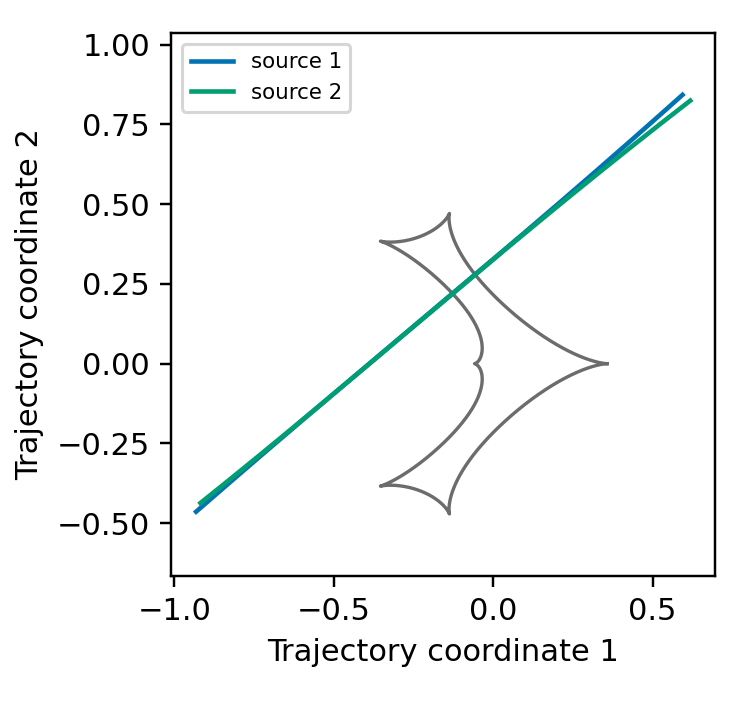
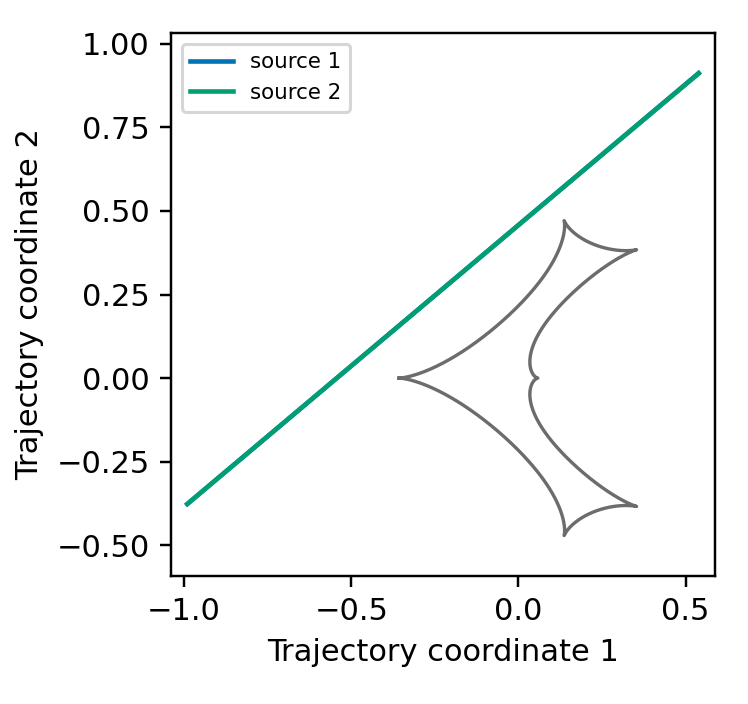
docs: restore aligned circular-elements examples

diff --git a/example/docs-python/generate_figures.py b/example/docs-python/generate_figures.py
@@ -388,15 +388,15 @@ def binary_source_xallarap_lightcurve():
 
 def binary_source_xallarap_elements_lightcurve():
     params = dict(
-        s=0.9, q=0.1, alpha=0.7, tE=30.0, t0=7500.0, u0=0.25,
+        s=0.9, q=0.1, alpha=0.7, tE=30.0, t0=7500.0, u0=0.35,
         rho1=0.004, rho2=0.002, flux_ratio=0.4, source_mass_ratio=0.7,
-        xi_1=0.015, xi_2=-0.0075,
+        xi_1=0.006, xi_2=-0.003,
     )
     times = np.linspace(7470.0, 7530.0, 300)
     circular = lcbinint.LightCurve(
         source="binary", xallarap="circular_elements", t_ref=7500.0,
     )
-    component_params = dict(params, period_xa=120.0, inc_xa=0.5)
+    component_params = dict(params, period_xa=300.0, inc_xa=0.3)
     components = circular.binary_source_components(times, component_params)
     plt.figure(figsize=(4.2, 2.7))
     plt.plot(times, components.source1.magnification, color="#0173B2", alpha=0.45, lw=1.0, label="source 1")
@@ -412,7 +412,8 @@ def binary_source_xallarap_elements_lightcurve():
 
     caustics = circular.caustics(component_params)
     plt.figure(figsize=(3.4, 3.2))
-    plot_caustics(caustics, color="#6C6C6C", lw=1.1)
+    for x, y in zip(caustics.x, caustics.y):
+        plt.plot(x, y, color="#6C6C6C", lw=1.1)
     plt.plot(components.source1.trajectory.x, components.source1.trajectory.y, color="#0173B2", label="source 1")
     plt.plot(components.source2.trajectory.x, components.source2.trajectory.y, color="#029E73", label="source 2")
     plt.xlabel("Trajectory coordinate 1")
@@ -463,8 +464,8 @@ def xallarap_single_source():
     static = lcbinint.LightCurve()
 
     elements_params = dict(
-        common, u0=0.25, xi_1=0.015, xi_2=-0.0075,
-        period_xa=120.0, inc_xa=0.5,
+        common, u0=0.35, xi_1=0.006, xi_2=-0.003,
+        period_xa=300.0, inc_xa=0.3,
     )
     elements = lcbinint.LightCurve(xallarap="circular_elements", t_ref=7500.0)
     elements_static_params = dict(elements_params)

diff --git a/docs/python/BinarySourceXallarap.md b/docs/python/BinarySourceXallarap.md
@@ -29,11 +29,11 @@ import lcbinint
 times = np.linspace(7470.0, 7530.0, 300)
 parameters = {
     "s": 0.9, "q": 0.1, "alpha": 0.7, "tE": 30.0,
-    "t0": 7500.0, "u0": 0.25,
+    "t0": 7500.0, "u0": 0.35,
     "rho1": 0.004, "rho2": 0.002, "flux_ratio": 0.4,
     "source_mass_ratio": 0.7,
-    "xi_1": 0.015, "xi_2": -0.0075,
-    "period_xa": 120.0, "inc_xa": 0.5,
+    "xi_1": 0.006, "xi_2": -0.003,
+    "period_xa": 300.0, "inc_xa": 0.3,
 }
 binary_curve = lcbinint.LightCurve(
     source="binary", xallarap="circular_elements", t_ref=7500.0,

diff --git a/docs/python/Xallarap.md b/docs/python/Xallarap.md
@@ -22,9 +22,9 @@ example below.
 times = np.linspace(7470.0, 7530.0, 300)
 parameters = {
     "s": 0.9, "q": 0.1, "alpha": 0.7, "tE": 30.0,
-    "t0": 7500.0, "u0": 0.25, "rho": 0.004,
-    "xi_1": 0.015, "xi_2": -0.0075,
-    "period_xa": 120.0, "inc_xa": 0.5,
+    "t0": 7500.0, "u0": 0.35, "rho": 0.004,
+    "xi_1": 0.006, "xi_2": -0.003,
+    "period_xa": 300.0, "inc_xa": 0.3,
 }
 static_curve = lcbinint.LightCurve()
 curve = lcbinint.LightCurve(xallarap="circular_elements", t_ref=7500.0)
